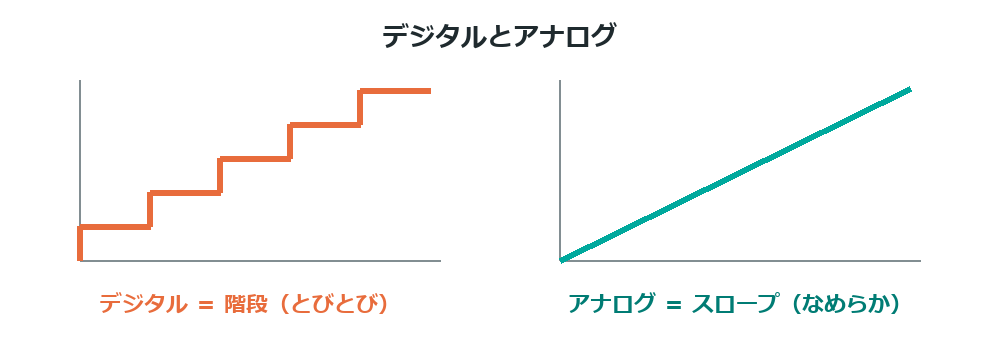
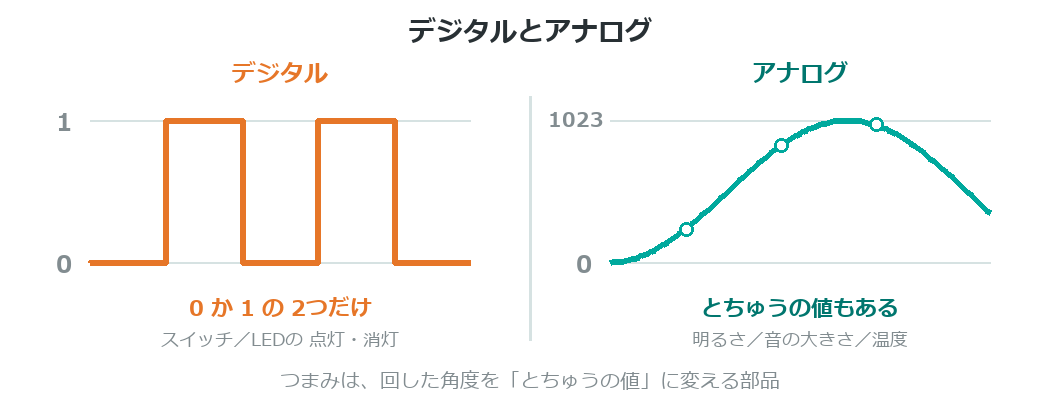
b4 のデジタル／アナログの図を本文に合わせて描きなおし
図が本文と矛盾していた。
b2 でも b4 でも「デジタルは 0 か 1 の2つだけ」と教えているのに、
図は5段の階段（とびとびの複数の値）になっていた。
「階段とスロープのちがい」というたとえも、その誤りを強めていた。

変更:
- デジタル … 0 と 1 の**2本の線だけ**を引き、その間を行き来する波形にした
- アナログ … なめらかな曲線に 0〜1023 の目盛りをつけ、
  とちゅうの値に印をうって「どこにでもなれる」ことを示した
- たとえを「階段とスロープ」→「スイッチと 水道のじゃぐち」に変更。
  じゃぐちは とちゅうで止められる、という子どもに身近な対比にした

diff --git a/docs/b4_analog/index.html b/docs/b4_analog/index.html
@@ -63,11 +63,11 @@
 
 つまみ（可変抵抗）は、回した角度を**電圧の高さ**に変える部品だよ。
 
-> 階段とスロープのちがい、と考えると分かりやすいかも。
+> スイッチと、水道のじゃぐち。じゃぐちは**とちゅうで止められる**ね。
 
 :::
 
-![デジタルはとびとび、アナログはなめらか](image/index/digital_analog.png)
+![デジタルは 0 か 1 だけ。アナログはとちゅうの値もある](image/index/digital_analog.png)
 
 ---
 

diff --git a/content/b4_analog/index.md b/content/b4_analog/index.md
@@ -50,11 +50,11 @@ wip: 写真まち
 
 つまみ（可変抵抗）は、回した角度を**電圧の高さ**に変える部品だよ。
 
-> 階段とスロープのちがい、と考えると分かりやすいかも。
+> スイッチと、水道のじゃぐち。じゃぐちは**とちゅうで止められる**ね。
 
 :::
 
-![デジタルはとびとび、アナログはなめらか](image/index/digital_analog.png)
+![デジタルは 0 か 1 だけ。アナログはとちゅうの値もある](image/index/digital_analog.png)
 
 ---
 
